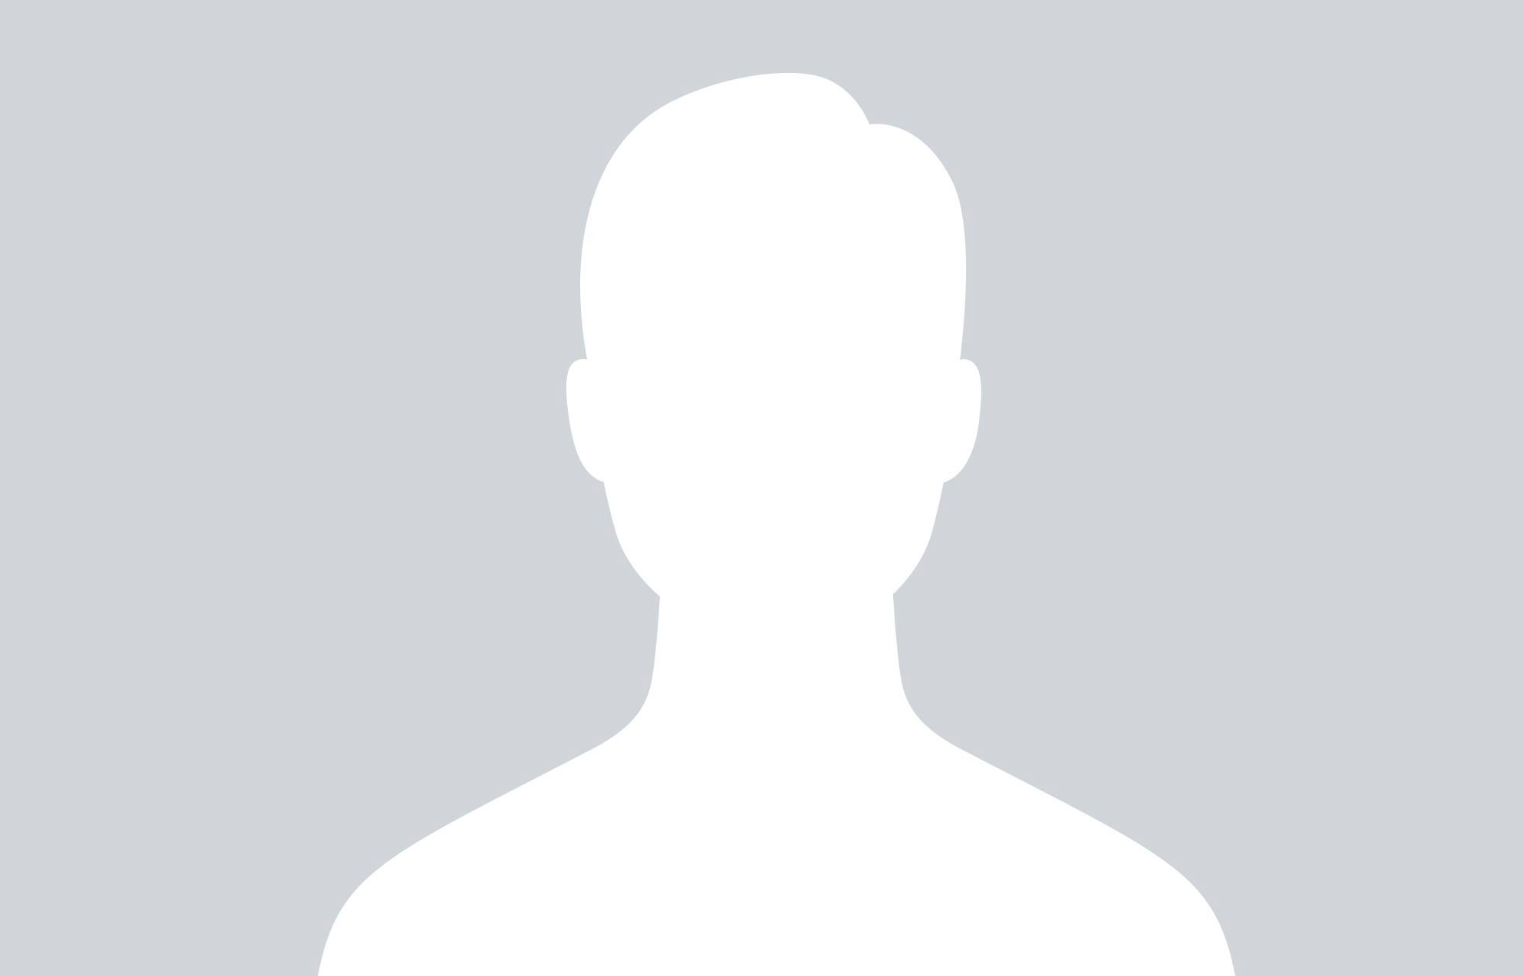
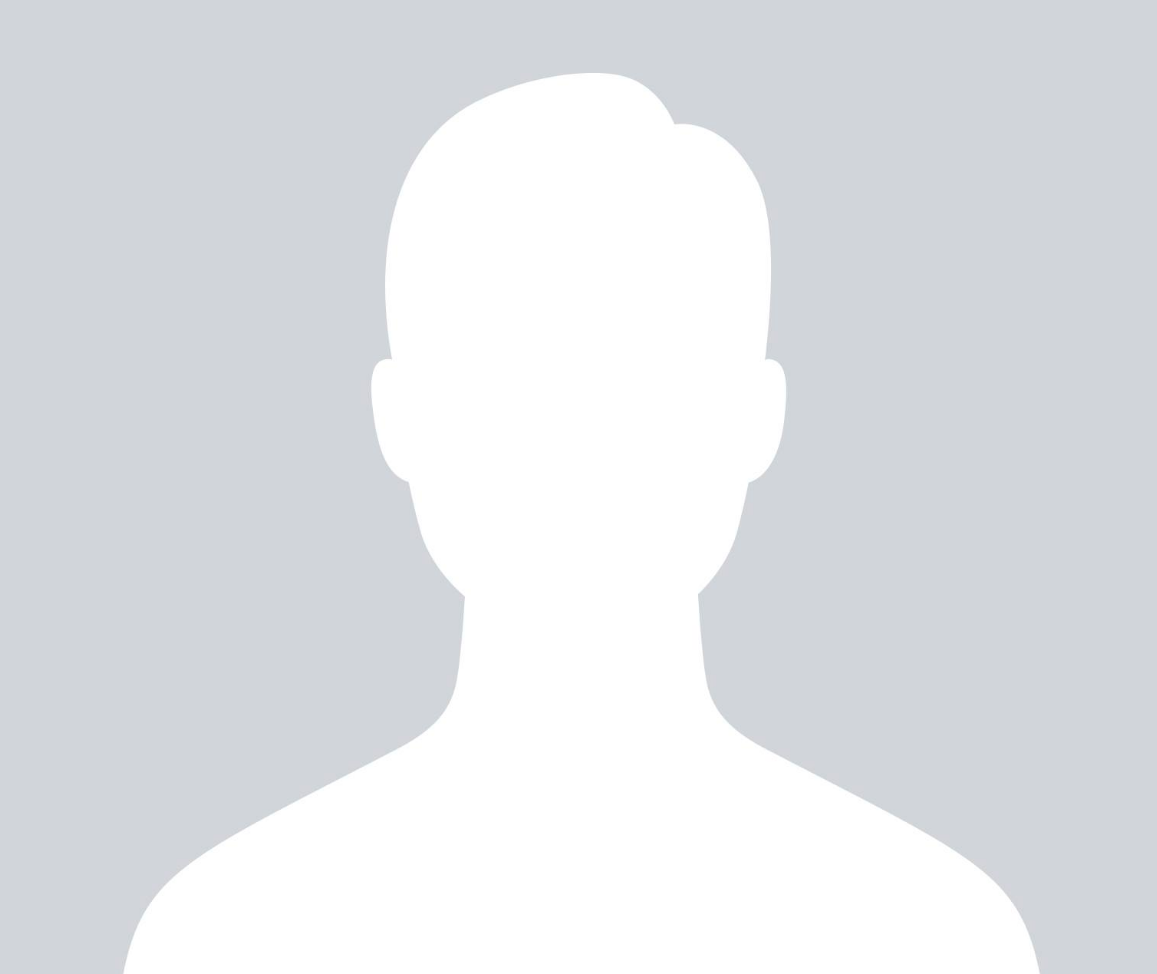
db 오류 수정, 프로필디폴트이미지 수정.

Changed region(s): [[0.0933, 0.0616, 0.4978, 1.0], [0.5601, 0.1232, 0.9023, 1.0], [0.5601, 0.0924, 0.5912, 0.1232]]

diff --git a/farmsharing_project/landBoard/migrations/0001_initial.py b/farmsharing_project/landBoard/migrations/0001_initial.py
@@ -1,5 +1,4 @@
-
-# Generated by Django 2.2.7 on 2019-11-29 18:46
+# Generated by Django 2.2.7 on 2019-11-30 04:08
 
 from django.conf import settings
 from django.db import migrations, models
@@ -31,7 +30,6 @@ class Migration(migrations.Migration):
                 ('id', models.AutoField(auto_created=True, primary_key=True, serialize=False, verbose_name='ID')),
                 ('title', models.CharField(max_length=100)),
                 ('region', models.CharField(max_length=100)),
-                ('land_area', models.FloatField()),
                 ('sharing_term_start', models.CharField(max_length=100)),
                 ('sharing_term_end', models.CharField(max_length=100)),
                 ('content', models.TextField()),
@@ -50,6 +48,7 @@ class Migration(migrations.Migration):
                 ('landboard_ptr', models.OneToOneField(auto_created=True, on_delete=django.db.models.deletion.CASCADE, parent_link=True, primary_key=True, serialize=False, to='landBoard.LandBoard')),
                 ('land_img', django_fields.fields.DefaultStaticImageField(blank=True, upload_to='land_img/')),
                 ('is_free', models.BooleanField(default=True)),
+                ('amount_period', models.CharField(max_length=30)),
                 ('amount', models.IntegerField(blank=True, null=True)),
                 ('choice_land', models.ForeignKey(on_delete=django.db.models.deletion.CASCADE, to='accounts.Land')),
                 ('writer', models.ForeignKey(on_delete=django.db.models.deletion.CASCADE, related_name='profile_sb', to=settings.AUTH_USER_MODEL)),
@@ -75,6 +74,7 @@ class Migration(migrations.Migration):
                 ('landboard_ptr', models.OneToOneField(auto_created=True, on_delete=django.db.models.deletion.CASCADE, parent_link=True, primary_key=True, serialize=False, to='landBoard.LandBoard')),
                 ('purpose', models.CharField(max_length=100)),
                 ('is_pay_for', models.BooleanField(default=False)),
+                ('land_area', models.FloatField(default=0.0)),
                 ('writer', models.ForeignKey(on_delete=django.db.models.deletion.CASCADE, related_name='profile_rb', to=settings.AUTH_USER_MODEL)),
             ],
             options={

diff --git a/farmsharing_project/landBoard/models.py b/farmsharing_project/landBoard/models.py
@@ -13,7 +13,6 @@ class Region(models.Model):
 class LandBoard(PolymorphicModel):
     title = models.CharField(max_length=100) #제목
     region = models.CharField(max_length=100) #지역
-    land_area = models.FloatField() #면적
     sharing_term_start = models.CharField(max_length=100) #공유기간 시작
     sharing_term_end = models.CharField(max_length=100) #공유기간 끝
     content = models.TextField() #글 내용
